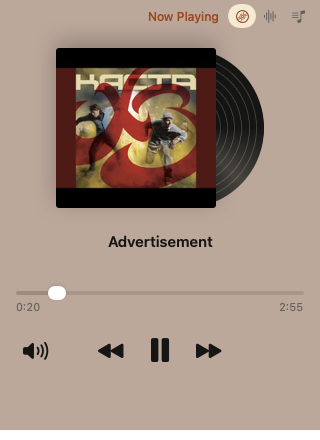
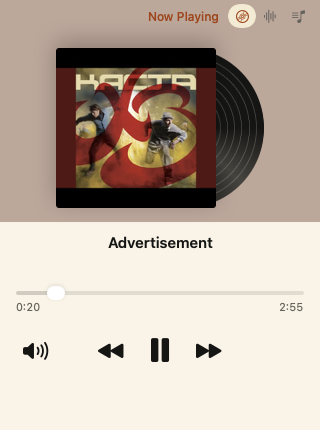
Now Playing: the artwork's colour fills only the zone above the title

diff --git a/Sources/BSide/Views/PlayerWindow.swift b/Sources/BSide/Views/PlayerWindow.swift
@@ -9,8 +9,10 @@ struct PlayerWindow: View {
     /// The hidden title bar still counts as a safe area at the top. The
     /// content goes under it, and the window must not grow by its height.
     @State private var topInset = Theme.Size.titleBar
-    /// The artwork's colour, over the whole window while Now Playing shows.
+    /// The artwork's colour, over the top of the window while Now Playing
+    /// shows: from the title bar down to just above the track's name.
     @State private var tint: Color?
+    @State private var tintBottom: CGFloat = 0
     @Environment(\.accessibilityReduceMotion) private var reduceMotion
     @Environment(\.openWindow) private var openWindow
 
@@ -29,8 +31,10 @@ struct PlayerWindow: View {
             footer
                 .padding(.bottom, Theme.Space.xs)
         }
-        .background(tintLayer)
+        .background(alignment: .top) { tintLayer }
         .background(Theme.Colors.bg)
+        .coordinateSpace(name: "window")
+        .onPreferenceChange(TintBottomKey.self) { tintBottom = $0 }
         .ignoresSafeArea(edges: .top)
         .frame(width: Theme.Size.window.width, height: Theme.Size.window.height - topInset)
         .onGeometryChange(for: CGFloat.self) { $0.safeAreaInsets.top } action: { topInset = $0 }
@@ -48,6 +52,7 @@ struct PlayerWindow: View {
         let showing = tint != nil && (navigation.page ?? .nowPlaying) == .nowPlaying
         return (tint ?? Theme.Colors.bg)
             .opacity(showing ? Theme.Tint.opacity : 0)
+            .frame(height: max(tintBottom, 0))
             .animation(.easeInOut(duration: Theme.Motion.tintChange), value: tint)
             .animation(.easeInOut(duration: Theme.Motion.tintChange), value: navigation.page)
     }

diff --git a/Sources/BSide/Views/NowPlayingPage.swift b/Sources/BSide/Views/NowPlayingPage.swift
@@ -9,6 +9,7 @@ struct NowPlayingPage: View {
     /// Set while the user drags the slider, so reports do not fight the drag.
     @State private var scrub: Double?
     @State private var showsVolume = false
+    @State private var tintBottom: CGFloat = 0
 
     var body: some View {
         if let blocked = blockingState(for: player) {
@@ -25,6 +26,9 @@ struct NowPlayingPage: View {
             Spacer(minLength: Theme.Space.m)
             ArtworkWithRecord(url: player.state.artworkURL, spinning: player.state.isPlaying)
             Spacer(minLength: Theme.Space.l)
+                // Where the artwork's colour ends: just above the title.
+                .onGeometryChange(for: CGFloat.self) { $0.frame(in: .named("window")).midY } action: { tintBottom = $0 }
+                .preference(key: TintBottomKey.self, value: tintBottom)
             VStack(spacing: Theme.Space.xxs) {
                 Text(title)
                     .font(Theme.Text.title)
@@ -198,6 +202,13 @@ struct NowPlayingPage: View {
         let total = Int(seconds)
         return String(format: "%d:%02d", total / 60, total % 60)
     }
+}
+
+/// How far down the window the artwork's colour reaches, reported by the
+/// Now Playing page.
+struct TintBottomKey: PreferenceKey {
+    static let defaultValue: CGFloat = 0
+    static func reduce(value: inout CGFloat, nextValue: () -> CGFloat) { value = max(value, nextValue()) }
 }
 
 /// An icon-only button in `text`, with a square click target.
